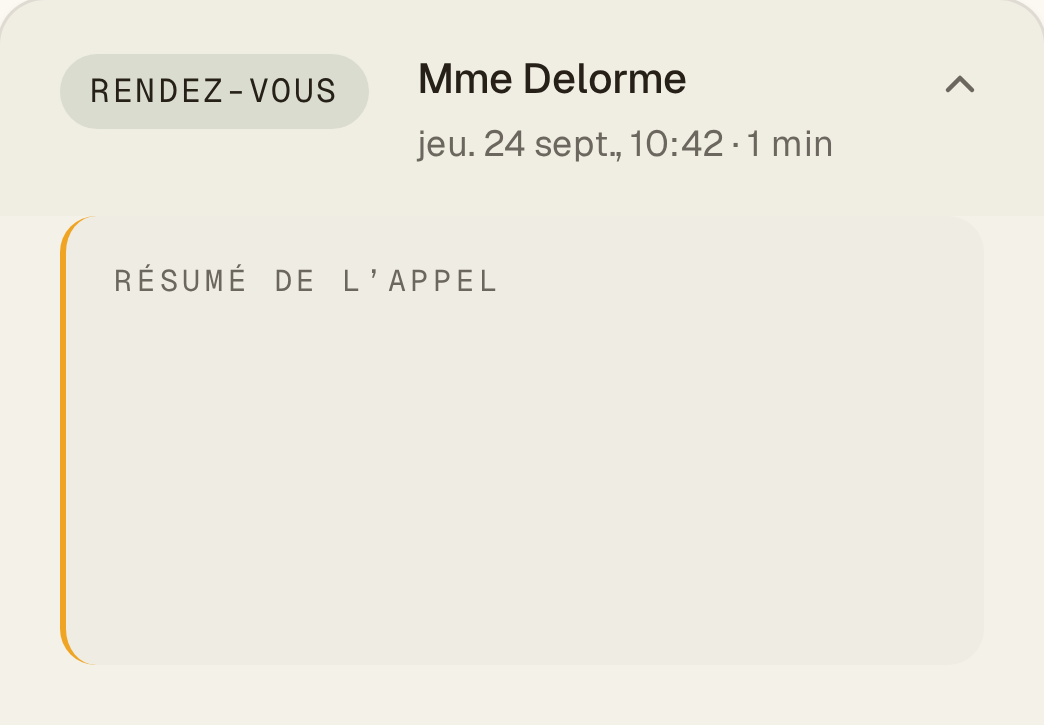
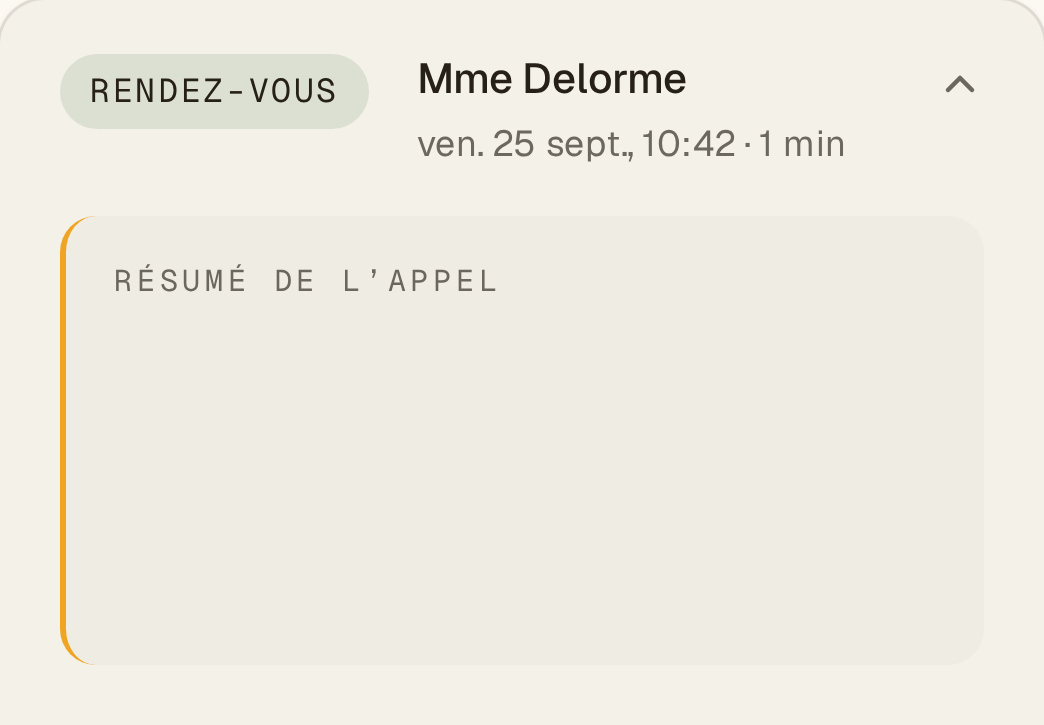
24 h chez Vokio : cadre de carte redessiné, la carte entière grandit à l'ouverture
Retour de Florian du 26/09 : coins carrés visibles en haut de la ligne, et
élément ouvert plus étroit que l'élément fermé. Cadre en CSS (rayon et
bordure de .card-v), hauteur animée pendant l'ouverture, captures refilmées
sans la teinte de survol.

Changed region(s): [[0.3985, 0.1821, 0.8276, 0.2428]]

diff --git a/videos/ux-retravail/24h-chez-vokio/index.html b/videos/ux-retravail/24h-chez-vokio/index.html
@@ -33,7 +33,12 @@ html,body{width:1080px;height:1920px;overflow:hidden;background:#F4F1E8}
 
 /* la carte réelle, comme dans app.vokio.fr : la ligne repliée, puis le volet qui se déplie.
    Trois images filmées (replié, en-tête ouvert, volet vide) + le chevron en SVG + le résumé en HTML. */
-.carte{position:absolute;left:70px;top:650px;width:1044px;transform:scale(.9);transform-origin:0 0}
+/* le cadre est redessiné ici : la capture d'un <details> embarque les coins arrondis de la carte
+   parente (arc de bordure + fond de page), d'où un coin carré visible (retour Florian 26/09).
+   Rayon et bordure de .card-v (rounded-2xl, 1 px) à l'échelle ×3 de la capture. */
+.carte{position:absolute;left:67px;top:650px;width:1050px;transform:scale(.9);transform-origin:0 0;
+       overflow:hidden;border-radius:48px;border:3px solid rgba(38,32,25,.10);background:#F4F1E8;
+       box-shadow:0 3px 9px rgba(38,32,25,.06)}
 .carte img{display:block;width:1044px}
 .carte .replie{position:absolute;left:0;top:0}
 .carte .entete{position:absolute;left:0;top:0}
@@ -50,7 +55,7 @@ html,body{width:1080px;height:1920px;overflow:hidden;background:#F4F1E8}
 #bilan-t{position:absolute;left:70px;right:60px;top:200px;font-size:80px;line-height:1.08;letter-spacing:-.014em}
 #bilan-t em{font-style:italic;display:block}
 #pile{position:absolute;left:70px;top:470px;width:940px}
-.ent{width:940px;height:195px;margin-bottom:22px;border-radius:26px;overflow:hidden;border:1px solid rgba(38,32,25,.14)}
+.ent{width:942px;height:196px;margin-bottom:22px;border-radius:43px;overflow:hidden;border:1px solid rgba(38,32,25,.12);box-shadow:0 3px 9px rgba(38,32,25,.05)}
 .ent img{display:block;width:940px}
 
 /* la fin, reprise du répondeur (masque de départ corrigé le 25/09) */
@@ -118,15 +123,15 @@ html,body{width:1080px;height:1920px;overflow:hidden;background:#F4F1E8}
   // Un appel = une heure, une situation, la vraie carte et sa phrase clé.
   // Les quatre cartes datent du même jour (jeu. 24 sept.) : garnir_24h.py.
   const APPELS = [
-    { m: "institut_beaute", h: "1042", h1: "Une cliente appelle.", h2: "Vous avez les mains prises.", top: 345, haut: 725,
+    { m: "institut_beaute", h: "1042", h1: "Une cliente appelle.", h2: "Vous avez les mains prises.", top: 345, haut: 725, hr: 282,
       av: "Mme Delorme souhaite une pose de gel avec Julie, jeudi en fin d'après-midi. ",
       cle: "Rendez-vous pris jeudi 17 h", ap: ", une heure. Rappel la veille par SMS." },
-    { m: "restaurant", h: "1248", h1: "Le téléphone sonne.", h2: "En plein coup de feu.", top: 344, haut: 725,
+    { m: "restaurant", h: "1248", h1: "Le téléphone sonne.", h2: "En plein coup de feu.", top: 344, haut: 725, hr: 282,
       av: "M. Chevalier ", cle: "réserve une table pour 4 mercredi 20 h 30", ap: ". Pas d'allergie signalée, une chaise haute demandée pour un enfant. Confirmation envoyée par SMS." },
-    { m: "veterinaire", h: "2214", h1: "Un chat ne mange plus.", h2: "La clinique est fermée.", top: 345, haut: 863,
+    { m: "veterinaire", h: "2214", h1: "Un chat ne mange plus.", h2: "La clinique est fermée.", top: 345, haut: 863, hr: 282,
       av: "Le chat de Mme Vidal ne mange plus depuis deux jours et reste prostré. Signes d'alerte passés en revue au téléphone : pas de vomissement, pas de difficulté à uriner. ",
       cle: "Consultation calée demain 9 h", ap: ", dossier ouvert au nom de Pacha, 7 ans." },
-    { m: "plombier", h: "2307", h1: "Une fuite sous l'évier.", h2: "Vous dormez.", top: 344, haut: 863,
+    { m: "plombier", h: "2307", h1: "Une fuite sous l'évier.", h2: "Vous dormez.", top: 344, haut: 863, hr: 282,
       // retours à la ligne forcés : ceux de la capture (l'app coupe « Intervention | calée »)
       av: "M. Lefèvre a une fuite sous l'évier, l'arrivée<br>d'eau est coupée. Le geste d'urgence lui a<br>été donné au téléphone. ",
       cle: "Intervention<br>calée demain matin 8 h 30", ap: ", adresse notée<br>: 14 rue Sainte, Marseille 8e. SMS de<br>confirmation envoyé." },
@@ -143,7 +148,7 @@ html,body{width:1080px;height:1920px;overflow:hidden;background:#F4F1E8}
   APPELS.forEach((a, k) => {
     zone.insertAdjacentHTML("beforeend",
       `<p class="situ serif" id="situ${k}"><span class="l1">${mots(a.h1, "s1")}</span> <em>${mots(a.h2, "s2")}</em></p>` +
-      `<div class="carte" id="carte${k}">` +
+      `<div class="carte" id="carte${k}" style="height:${a.hr + 6}px">` +
         `<img class="replie" src="assets/captures/${a.m}-replie-net.png" alt="">` +
         `<img class="entete" src="assets/captures/${a.m}-entete-net.png" alt="">` +
         `<div class="volet"><img src="assets/captures/${a.m}-panneau.png" alt="">` +
@@ -181,19 +186,21 @@ html,body{width:1080px;height:1920px;overflow:hidden;background:#F4F1E8}
       });
     }
     tl.set([`#situ${k}`, c], { autoAlpha: 0 }, 0);
-    tl.set([`#situ${k}`, c], { autoAlpha: 1 }, S + 0.3);
+    tl.set(`#situ${k}`, { autoAlpha: 1 }, S + 0.3);
+    tl.set(c, { visibility: "visible" }, S + 1.05);
     tl.fromTo(`#situ${k} .s1`, { yPercent: 110 }, { yPercent: 0, duration: 0.7, ease: P3o, stagger: 0.07 }, S + 0.35);
     tl.fromTo(`#situ${k} .s2`, { yPercent: 110 }, { yPercent: 0, duration: 0.75, ease: P3o, stagger: 0.07 }, S + 0.7);
     // la ligne repliée entre, calmement
     tl.set(`${c} .entete, ${c} .volet`, { autoAlpha: 0 }, 0);
-    tl.fromTo([`${c} .replie`, `${c} .chev`], { y: 30, opacity: 0 }, { y: 0, opacity: 1, duration: 0.6, ease: P3o }, S + 1.05);
+    tl.fromTo(c, { y: 30, opacity: 0 }, { y: 0, opacity: 1, duration: 0.6, ease: P3o, immediateRender: false }, S + 1.05);
     // l'ouverture : le chevron pivote (200 ms dans l'app, un peu plus ici), la ligne passe à l'en-tête ouvert
     tl.to(`${c} .chev`, { rotation: 180, duration: 0.3, ease: "power2.inOut", transformOrigin: "50% 50%" }, O);
     // bascule sèche, comme l'app (l'aperçu est group-open:hidden) : un fondu superposait les deux lignes
     tl.set(`${c} .replie`, { autoAlpha: 0 }, O);
     tl.set(`${c} .entete`, { autoAlpha: 1 }, O);
     tl.set(`${c} .volet`, { autoAlpha: 1 }, O);
-    tl.fromTo(`${c} .volet`, { clipPath: "inset(0% 0% 100% 0%)" }, { clipPath: "inset(0% 0% 0% 0%)", duration: 0.8, ease: "power3.inOut" }, O);
+    // la carte entière grandit, bordure comprise : l'élément ouvert garde la largeur de la ligne
+    tl.fromTo(c, { height: a.hr + 6 }, { height: a.haut + 6, duration: 0.8, ease: "power3.inOut" }, O);
     // le résumé s'écrit : il démarre avec le volet et finit après lui
     const t0 = O + 0.25;
     const nMots = document.getElementById("carte" + k).querySelectorAll(".res .t").length;

diff --git a/videos/ux-retravail/24h-chez-vokio/NOTES.md b/videos/ux-retravail/24h-chez-vokio/NOTES.md
@@ -30,3 +30,9 @@ les détails. » Reprise fidèle à app.vokio.fr :
   le volet a fini avant le texte, l'œil se pose sur la fin de l'écriture ; puis le trait solaire.
 - **Rythme** : 6 s par appel au lieu de 4 (1 à 2 s de lecture après le trait), film de 32,4 s.
 - Captures `replie` refilmées le 26/09 avec le même regarnissage (garnir_24h.py), espaces remis.
+
+## Passe 3 (26/09) : le cadre de la carte
+
+- Coins carrés visibles : la capture d'un <details> embarque les coins arrondis de la carte parente. Le cadre est redessiné en CSS (rayon 48 px, bordure 3 px, échelle ×3 de .card-v) et la carte ENTIÈRE grandit à l'ouverture (hauteur animée), bordure comprise.
+- En-tête plus sombre que le volet : c'était la teinte de survol (clic Playwright). Refilmé souris sortie ; même défaut corrigé dans app.vokio.fr sur mobile (survol collant iOS, /root/vokio-deploy/survol-appels-260926/).
+- Captures refilmées le 26/09 : les fiches affichent ven. 25 sept. (même jour pour les quatre).
